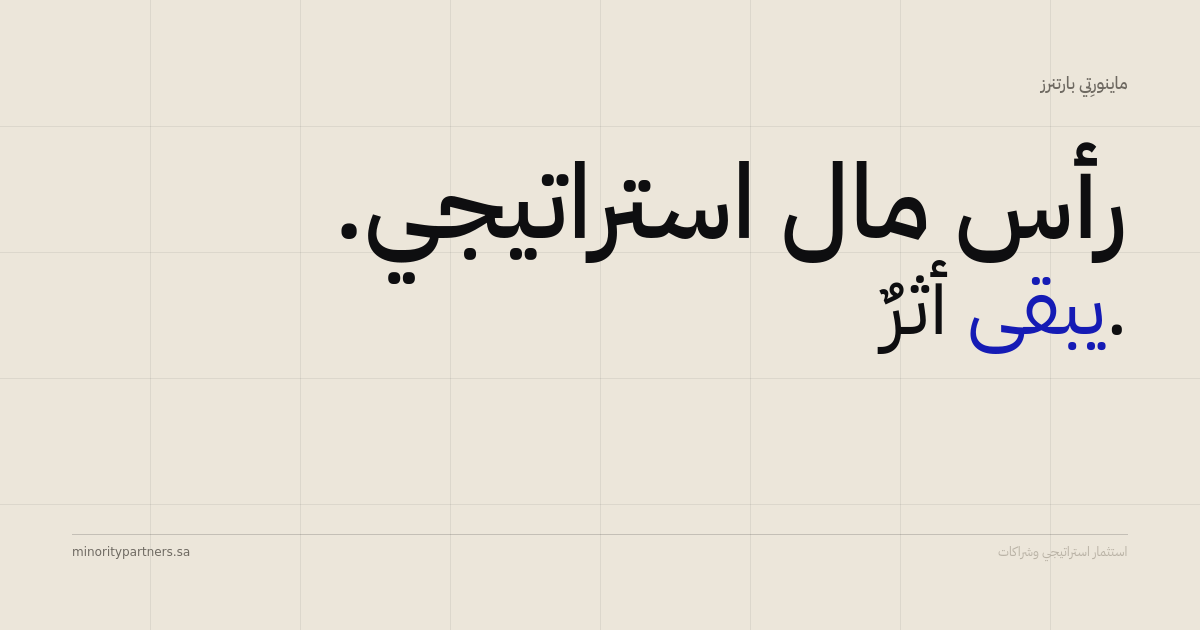
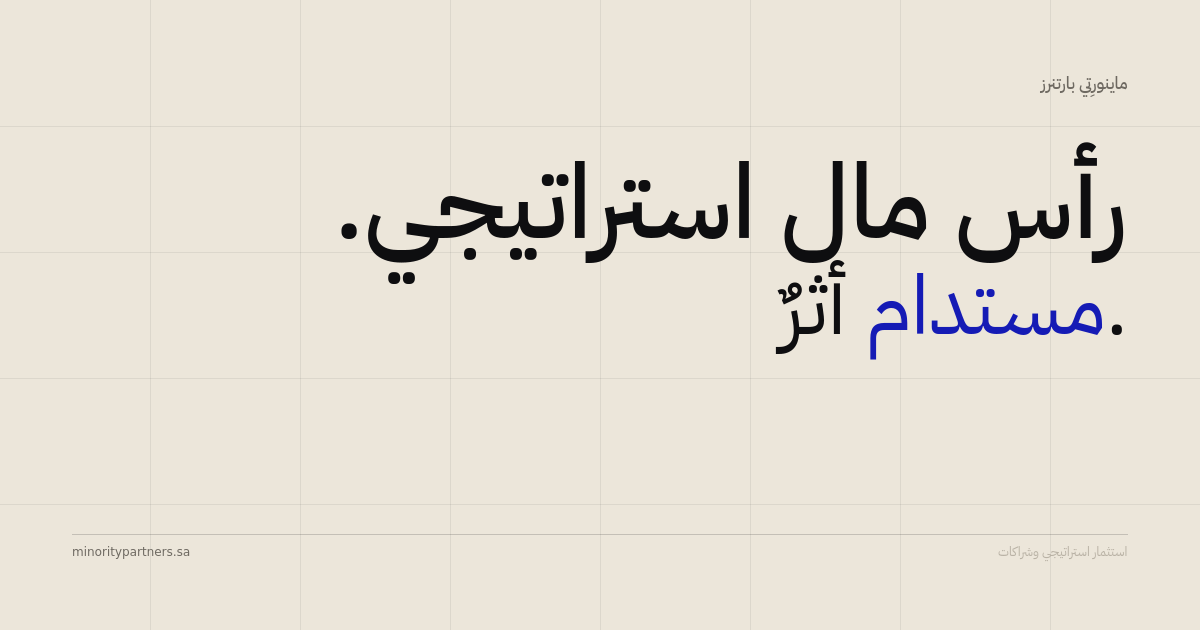
Arabic nav, font audit, and copy fixes
Nav:
- Show تأسست · 2026 in Arabic nav (mirrors Established · 2026 in EN)
- row-reverse on nav-end so EN button stays leftmost in RTL

Hero/footer copy:
- أثرٌ يبقى → أثرٌ مستدام (hero line 2, footer tagline, SEO meta, OG image)
- Regenerated og-cover-ar.png with new copy

Font audit — specificity fixes (higher-specificity base rules were
overriding generic [dir=rtl] overrides):
- .platform .num .tag: serif 0,3,0 → IBM Plex Arabic + font-style: normal
- .philosophy .head .label: sans 0,3,0 → IBM Plex Arabic
- .closing .contact .cell .label: sans 0,3,0 → IBM Plex Arabic
- .closing .contact .cell .value: serif 0,3,0 → IBM Plex Arabic
- .coda__tagline: serif 0,1,0 → IBM Plex Arabic

https://claude.ai/code/session_01BRSuRc5uuN2J5hJrV8dTNC

Changed region(s): [[0.6475, 0.3921, 0.925, 0.573]]

diff --git a/script.js b/script.js
@@ -63,6 +63,7 @@
     en: {
       'nav-wordmark':       'Minority Partners — return to top',
       'nav-brand':          'Minority Partners',
+      'nav-established':    'Established · 2026',
       'nav-overview':       'Overview',
       'nav-strategy':       'Strategy',
       'nav-approach':       'Approach',
@@ -160,6 +161,7 @@
     ar: {
       'nav-wordmark':       'ماينورِتي بارتنرز',
       'nav-brand':          'ماينورِتي بارتنرز',
+      'nav-established':    'تأسست · 2026',
       'nav-overview':       'نظرة عامة',
       'nav-strategy':       'الاستراتيجية',
       'nav-approach':       'منهجنا',
@@ -167,7 +169,7 @@
       'nav-contact':        'تواصل',
 
       'hero-line1':         'رأس مال استراتيجي.',
-      'hero-line2':         'أثرٌ <span class="blue">يبقى</span>.',
+      'hero-line2':         'أثرٌ <span class="blue">مستدام</span>.',
       'hero-aside':         'رسالتنا',
       'hero-statement':     'ننتقي شراكاتنا بعناية.<br>نبني على مهل.<br>ونصنع <em>قيمةً تمتد</em>.',
       'hero-cta':           'استكشف رؤيتنا',
@@ -251,7 +253,7 @@
 
       'footer-brand':       'ماينورِتي بارتنرز',
       'footer-copy':        '© 2026 — جميع الحقوق محفوظة  ·  <a href="/privacy.html">سياسة الخصوصية</a>',
-      'footer-tagline':     'رأس مال استراتيجي. أثرٌ يبقى.',
+      'footer-tagline':     'رأس مال استراتيجي. أثرٌ مستدام.',
     }
   };
 
@@ -264,13 +266,13 @@
       ogLocale:    'en_US',
     },
     ar: {
-      title:       'ماينورِتي بارتنرز — رأس مال استراتيجي. أثرٌ يبقى.',
+      title:       'ماينورِتي بارتنرز — رأس مال استراتيجي. أثرٌ مستدام.',
       description: 'ماينورِتي بارتنرز منصة استثمار وشراكات استراتيجية، تنشر رأس المال عبر الاستثمارات الأقلية، وشراكات التطوير الحضري العام والخاص، واستثمارات عابرة للأسواق تربط الاقتصادات الناشئة برأس المال المؤسسي.',
-      ogTitle:     'ماينورِتي بارتنرز — رأس مال استراتيجي. أثرٌ يبقى.',
+      ogTitle:     'ماينورِتي بارتنرز — رأس مال استراتيجي. أثرٌ مستدام.',
       ogDesc:      'منصة استثمار وشراكات استراتيجية انتقائية، تركّز على خلق قيمة طويلة الأمد عبر الاستثمارات الأقلية، وشراكات البنية التحتية الحضرية، والاستثمارات العابرة للأسواق.',
       ogLocale:    'ar_SA',
       ogImage:     'https://minoritypartners.sa/assets/og-cover-ar.png',
-      ogImageAlt:  'ماينورِتي بارتنرز — رأس مال استراتيجي. أثرٌ يبقى.',
+      ogImageAlt:  'ماينورِتي بارتنرز — رأس مال استراتيجي. أثرٌ مستدام.',
     },
   };
 

diff --git a/style.css b/style.css
@@ -1108,7 +1108,8 @@ footer {
   line-height: 1;
   vertical-align: middle;
 }
-[dir="rtl"] .meta { display: none; }
+/* Established badge: show in Arabic with RTL order (EN btn leftmost, badge to its right) */
+[dir="rtl"] .nav-end { flex-direction: row-reverse; }
 
 /* Wordmark in Arabic: no MP monogram, use IBM Plex Arabic */
 [dir="rtl"] .nav .wordmark .mp { display: none; }
@@ -1140,7 +1141,7 @@ footer {
 [dir="rtl"] .platform .glyph::before { background-position: right center; }
 
 [dir="rtl"] .creed { text-align: right; }
-[dir="rtl"] .philosophy .head .label { text-align: left; }
+[dir="rtl"] .philosophy .head .label { text-align: left; font-family: var(--ar-font); }
 [dir="rtl"] .signoff p { text-align: right; }
 [dir="rtl"] .signoff .stamp { text-align: left; direction: ltr; }
 
@@ -1150,8 +1151,13 @@ footer {
 [dir="rtl"] .closing .grid { grid-template-columns: minmax(0, 1fr) minmax(0, 0.42fr); }
 [dir="rtl"] .contact { direction: rtl; }
 
+/* Specificity fixes: override rules that are more specific than the generic RTL font block */
+[dir="rtl"] .platform .num .tag { font-family: var(--ar-font); font-style: normal; }
+[dir="rtl"] .closing .contact .cell .label { font-family: var(--ar-font); }
+[dir="rtl"] .closing .contact .cell .value { font-family: var(--ar-font); letter-spacing: 0; }
+
 [dir="rtl"] .coda { flex-direction: row-reverse; }
-[dir="rtl"] .coda__tagline { text-align: left; }
+[dir="rtl"] .coda__tagline { font-family: var(--ar-font); letter-spacing: 0; text-align: left; }
 
 /* ── RTL responsive overrides ────────────────────────────────────────────── */
 @media (max-width: 1080px) {

diff --git a/index.html b/index.html
@@ -184,7 +184,7 @@
     <div class="nav-end">
       <div class="meta" aria-label="Established 2026">
         <span class="pulse" aria-hidden="true"></span>
-        <span>Established · 2026</span>
+        <span data-i18n="nav-established">Established · 2026</span>
       </div>
       <button class="lang-toggle" id="lang-toggle" aria-label="Switch to Arabic">AR</button>
     </div>
